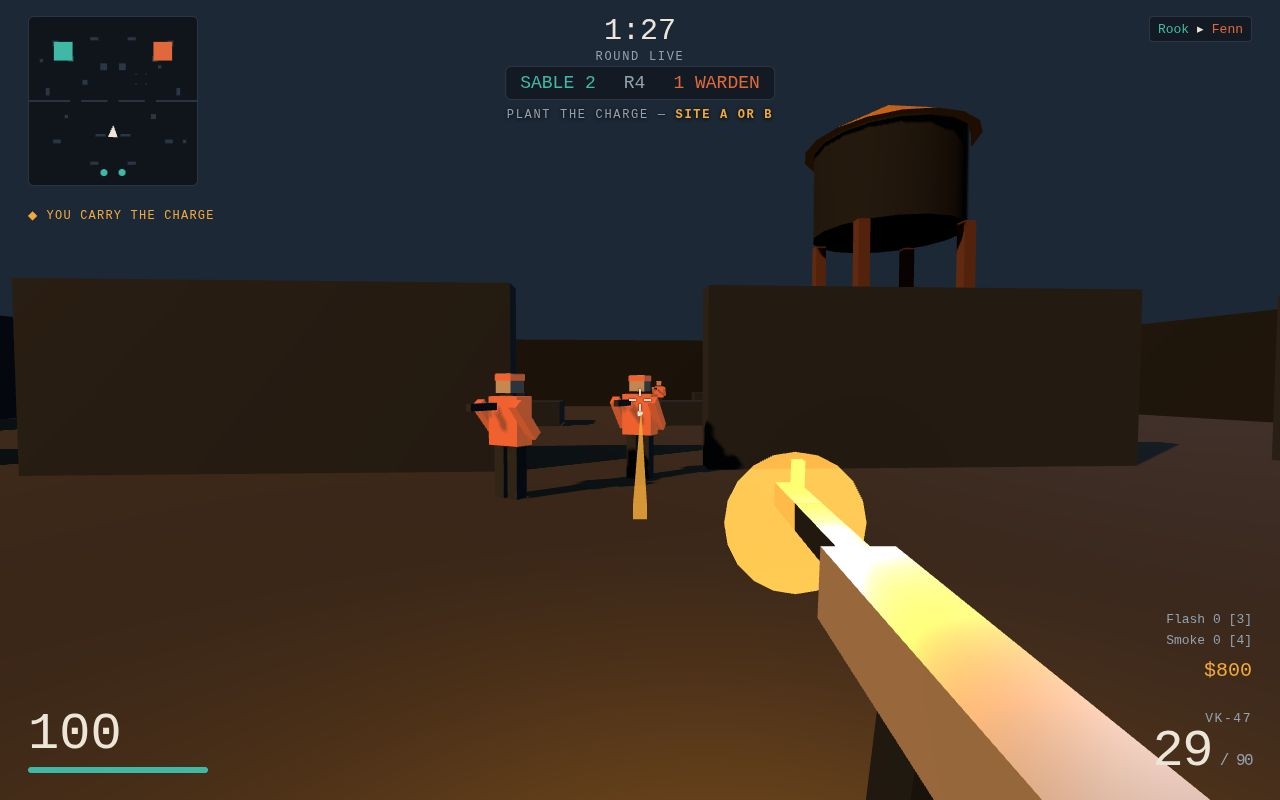
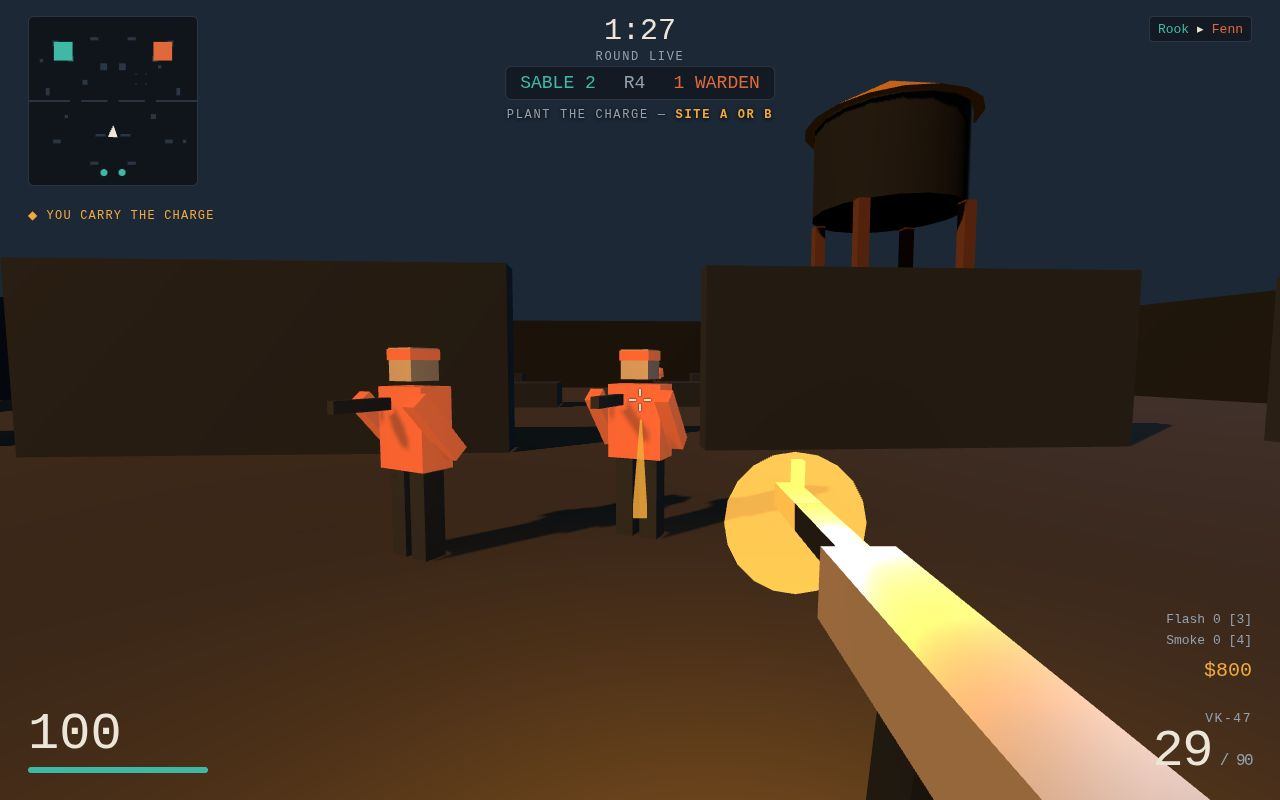
Review round: 7 targeted fixes (milionseek second opinion)
- Round-1 dead air: the buy menu auto-opens when round 1 starts, so the
  first thing a new player sees is something to do, not 15s at spawn.
  Closing it locks the pointer; the sim starts with the menu.
- Discrete-key double-toggle: edge keys are now consumed once per frame,
  after the sim steps, instead of cleared inside the step — a frame with
  no sim step (fast display) can no longer re-trigger B and close the
  menu it just opened. Reload stays guarded against multi-step frames.
- Play shot: the two Warden bots moved from ~9m to ~5m, so the cover
  frame has unmissable enemies in the centre gap.
- Shot-mode timers: the staged killfeed entry and the hitmarker no
  longer expire on wall clocks — a slow capture can't lose them.
- Death feedback: an 'Eliminated — spectating <name>' line appears on
  death, and follows the next living teammate if the spectated bot dies.
- Pointer relock: requestLock now reports success, and closeBuy retries
  once after 1.4s when Chrome's exit cooldown rejects the first attempt.
- Kevlar is per-life/per-round armour now: cleared on death and at round
  start for the player and every bot (bots re-buy when flush).

Live checks 16/16 (added auto-open + B-toggle checks), clean console;
dossier under the cap; screenshots retaken.

diff --git a/game/src/main.js b/game/src/main.js
@@ -90,6 +90,16 @@ const hud = createHud(world, {
     audio.unlock();
     if (shot) return;
     if (state.phase === 'matchEnd') restartMatch();
+    if (state.round === 1 && state.phase === 'buy') {
+      // Round 1 opens on the buy menu, not on an empty spawn: the first thing
+      // a new player sees is something to do, not 15s of dead air. No lock
+      // yet — the menu is a mouse UI, and closing it locks the pointer.
+      started = true;
+      paused = false;
+      hud.hideOverlay();
+      openBuy();
+      return;
+    }
     input.requestLock();
   },
   onBuy(id) {
@@ -122,6 +132,10 @@ function resetLoadoutForRound() {
   player.grenades.smoke = 0;
   player.flashUntil = 0;
   player.flashPeak = 0;
+  // Kevlar is per-round armour: a purchase from last round does not carry over.
+  player.kevlar = false;
+  hud.setArmor(false);
+  hud.setSpectate('');
   playerBody.reset(SPAWNS.sable[0]);
   weapons.refillAll();
   weapons.switchTo(player.primary ?? 'p9');
@@ -139,7 +153,9 @@ function resetLoadoutForRound() {
   hud.hidePlant();
   hud.setCharge(true);
   // Bots spend their winnings: a rifle when they can afford one, kevlar when flush.
+  // Their kevlar resets first, like the player's — then they re-buy if flush.
   for (const bot of bots.bots) {
+    bot.kevlar = false;
     const money = state.money[bot.id] ?? 0;
     if (money >= WEAPONS.vk47.price && bot.weapon !== 'vk47') {
       state.money[bot.id] -= WEAPONS.vk47.price;
@@ -328,16 +344,27 @@ function damageEntity(target, amount, headshot, attacker) {
     }
   }
   if (attacker === player) {
-    hud.hitMarker(target.health <= 0, shot ? 4000 : 90);
+    // In shot mode the hitmarker never expires: the render is frozen but wall
+    // clocks keep running, and a slow capture must not lose it.
+    hud.hitMarker(target.health <= 0, shot ? null : 90);
     audio.hit(target.health <= 0);
   }
   if (target.health > 0) return;
   target.alive = false;
   target.health = 0;
+  // Kevlar is per-life armour: it does not survive death.
+  target.kevlar = false;
   if (target.kind === 'bot') {
     target.fall = 0;
     target.target = null;
     target.channel = null;
+    // If the player was spectating this bot, follow the next living teammate
+    // instead of snapping back to the corpse.
+    if (target.id === spectateId && !player.alive) {
+      const next = bots.bots.find((b) => b.alive && b.team === 'sable');
+      spectateId = next ? next.id : null;
+      hud.setSpectate(next ? `Eliminated — spectating <b>${next.name}</b>` : 'Eliminated — <b>your team is gone</b>');
+    }
   }
   state.kills[attacker.id] = (state.kills[attacker.id] ?? 0) + 1;
   state.deaths[target.id] = (state.deaths[target.id] ?? 0) + 1;
@@ -353,6 +380,9 @@ function damageEntity(target, amount, headshot, attacker) {
   }
   if (target === player) {
     spectateId = (bots.bots.find((b) => b.alive && b.team === 'sable') ?? {}).id ?? null;
+    const spectated = spectateId ? bots.byId(spectateId) : null;
+    hud.setSpectate(spectated ? `Eliminated — spectating <b>${spectated.name}</b>` : 'Eliminated — <b>your team is gone</b>');
+    hud.setArmor(false);
     hud.setCharge(false);
     if (hud.buyOpen) closeBuy(false);
   }
@@ -426,7 +456,18 @@ function openBuy() {
 
 function closeBuy(relock) {
   hud.hideBuy();
-  if (relock && started && state.phase !== 'matchEnd' && !shot) input.requestLock();
+  if (relock && started && state.phase !== 'matchEnd' && !shot) {
+    input.requestLock().then((locked) => {
+      if (locked) return;
+      // Chrome enforces ~1.25s between exiting the lock and re-acquiring it; a
+      // quick close can land inside the cooldown and leave mouse look dead
+      // until the next click. Retry once after the cooldown, if the game still
+      // wants the lock then.
+      setTimeout(() => {
+        if (!hud.buyOpen && started && !paused && state.phase !== 'matchEnd') input.requestLock();
+      }, 1400);
+    });
+  }
 }
 
 function onLockChange(locked) {
@@ -572,7 +613,10 @@ function step(dt) {
   bots.step(dt, state.simTime);
   effects.step(dt);
   rounds.step(dt);
-  input.endStep();
+  // Edge-triggered keys are NOT cleared here: they are consumed once per frame
+  // in frame(), after the steps. Clearing inside the step let a frame with no
+  // sim step (fast display) re-trigger the same press — B opened then closed
+  // the buy menu in one tap.
 }
 
 function handleDiscreteKeys() {
@@ -664,7 +708,6 @@ function frame(now) {
   const dt = Math.min((now - lastTime) / 1000, 0.1);
   lastTime = now;
   if (!frozen && !paused && started) {
-    handleDiscreteKeys();
     const look = input.takeLook();
     if (input.state.locked && player.alive) playerBody.look(look.x, look.y);
     accumulator += dt;
@@ -675,6 +718,12 @@ function frame(now) {
       steps += 1;
     }
     if (accumulator > FIXED_STEP * 5) accumulator = 0;
+    // Discrete keys run once per frame, after the steps, and the edge set is
+    // cleared right here — so a press is consumed exactly once even on a frame
+    // where no sim step ran. (Steps still see the press first: reload is
+    // guarded, so several steps in one frame can't double-trigger it.)
+    handleDiscreteKeys();
+    input.endStep();
     syncCamera();
     syncHud();
   }
@@ -753,13 +802,13 @@ function runShot(name) {
     player.primary = 'vk47';
     weapons.switchTo('vk47');
     const bram = bots.byId('bram');
-    bram.pos.set(0.5, 0, 1);
+    bram.pos.set(0.3, 0, 5);
     bram.yaw = Math.PI;
     bram.state = 'hold';
     bram.holdYaw = Math.PI;
     bram.holdUntil = state.simTime + 60;
     const onyx = bots.byId('onyx');
-    onyx.pos.set(-1.4, 0, 2.5);
+    onyx.pos.set(-1.6, 0, 5.5);
     onyx.yaw = Math.PI * 0.9;
     onyx.state = 'hold';
     onyx.holdYaw = Math.PI * 0.8;
@@ -768,8 +817,8 @@ function runShot(name) {
     bots.blind(bram, state.simTime + 60, 1);
     bots.blind(onyx, state.simTime + 60, 1);
     settle(10);
-    hud.killfeedAdd({ killer: 'Rook', killerTeam: 'sable', victim: 'Fenn', victimTeam: 'warden', headshot: false });
-    aimPoint.set(0.5, 1.2, 1);
+    hud.killfeedAdd({ killer: 'Rook', killerTeam: 'sable', victim: 'Fenn', victimTeam: 'warden', headshot: false }, true);
+    aimPoint.set(0.3, 1.2, 5);
     aimAt(aimPoint);
     playerShoot();
     settle(1);

diff --git a/game/index.html b/game/index.html
@@ -84,12 +84,14 @@
   #plant-bar { height: 8px; margin-top: 6px; background: rgba(16,21,28,.8); border: 1px solid var(--hairline); border-radius: 4px; overflow: hidden; }
   #plant-fill { height: 100%; width: 0%; background: var(--accent); }
   #hint { position: fixed; left: 50%; bottom: 18%; transform: translateX(-50%); font-size: 14px; color: var(--ink); background: rgba(16,21,28,.72); border: 1px solid var(--hairline); border-radius: 4px; padding: 6px 12px; }
+  #spectate { position: fixed; left: 50%; bottom: 32%; transform: translateX(-50%); font-family: var(--font-readout); font-size: 15px; letter-spacing: .06em; color: var(--muted); text-shadow: 0 1px 6px #000; white-space: nowrap; }
+  #spectate b { color: var(--sable); font-weight: 600; }
   #hint kbd { font-family: var(--font-readout); color: var(--accent); }
   #charge { position: fixed; left: 28px; top: 208px; font-family: var(--font-readout); font-size: 12px; letter-spacing: .1em; color: var(--accent); text-transform: uppercase; }
   #flash { position: fixed; inset: 0; background: #fff; opacity: 0; pointer-events: none; }
   #damage { position: fixed; inset: 0; pointer-events: none; opacity: 0; transition: opacity 120ms linear; box-shadow: inset 0 0 90px 30px rgba(224,72,62,.55); }
   #buy { position: fixed; inset: 0; display: grid; place-items: center; background: rgba(16,21,28,.6); pointer-events: auto; }
-  #buy[hidden], #bomb[hidden], #plant[hidden], #hint[hidden], #charge[hidden], #objective[hidden] { display: none; }
+  #buy[hidden], #bomb[hidden], #plant[hidden], #hint[hidden], #charge[hidden], #objective[hidden], #spectate[hidden] { display: none; }
   #buy-panel { width: min(560px, 94vw); padding: 24px 28px; background: var(--surface); border: 1px solid var(--hairline); border-radius: var(--radius); }
   #buy-panel h2 { margin: 0 0 4px; font-size: 24px; font-weight: 600; letter-spacing: -.01em; }
   #buy-money { margin: 0 0 16px; font-family: var(--font-readout); color: var(--accent); }
@@ -133,6 +135,7 @@
   <div id="bomb" hidden><div id="bomb-label">Charge planted — 35.0</div><div id="bomb-bar"><div id="bomb-fill"></div></div></div>
   <div id="plant" hidden><div id="plant-label">Planting…</div><div id="plant-bar"><div id="plant-fill"></div></div></div>
   <div id="hint" hidden></div>
+  <div id="spectate" hidden></div>
   <div id="charge" hidden>◆ You carry the charge</div>
 </div>
 <div id="flash"></div>

diff --git a/game/src/hud.js b/game/src/hud.js
@@ -45,6 +45,7 @@ export function createHud(world, callbacks) {
   const scoreWarden = $('score-warden');
   const scoreMid = $('score-mid');
   const objectiveEl = $('objective');
+  const spectateEl = $('spectate');
   const dmgdir = $('dmgdir');
   const killfeed = $('killfeed');
   const banner = $('banner');
@@ -76,6 +77,7 @@ export function createHud(world, callbacks) {
   let lastTimer = '';
   let lastScore = '';
   let lastObjective = '';
+  let lastSpectate = '';
   let hitTimer = 0;
   let bannerTimer = 0;
   let damageTimer = 0;
@@ -220,14 +222,23 @@ export function createHud(world, callbacks) {
     setCharge(carrying) {
       charge.hidden = !carrying;
     },
-    killfeedAdd(entry) {
+    killfeedAdd(entry, persist = false) {
       const div = document.createElement('div');
       const killerClass = entry.killerTeam === 'sable' ? 'sable' : 'warden';
       const victimClass = entry.victimTeam === 'sable' ? 'sable' : 'warden';
       div.innerHTML = `<span class="${killerClass}">${entry.killer}</span> ▸ <span class="${victimClass}">${entry.victim}</span>${entry.headshot ? ' ◎' : ''}`;
       killfeed.prepend(div);
       while (killfeed.children.length > 5) killfeed.removeChild(killfeed.lastChild);
-      setTimeout(() => div.remove(), 6000);
+      // A persisted entry never expires: in shot mode the render is frozen but
+      // wall clocks keep running, and a slow capture must not lose the feed.
+      if (!persist) setTimeout(() => div.remove(), 6000);
+    },
+    // The death line under the crosshair: who the player is spectating. Empty hides it.
+    setSpectate(html) {
+      if (html === lastSpectate) return;
+      lastSpectate = html;
+      spectateEl.hidden = html === '';
+      spectateEl.innerHTML = html;
     },
     banner(titleText, subText, ms = 2500) {
       bannerTitle.textContent = titleText;
@@ -245,6 +256,7 @@ export function createHud(world, callbacks) {
       hitmarker.classList.toggle('kill', killed);
       hitmarker.style.transform = killed ? 'translate(-50%, -50%) rotate(45deg) scale(1.25)' : '';
       clearTimeout(hitTimer);
+      if (holdMs == null) return; // shot mode: the marker stays for the frame
       hitTimer = setTimeout(() => {
         hitmarker.classList.remove('on');
         hitmarker.classList.remove('kill');

diff --git a/game/src/input.js b/game/src/input.js
@@ -64,12 +64,21 @@ export function createInput(canvas, onLockChange) {
 
   return {
     state,
+    // Returns a promise that resolves true when the lock engages, false when it
+    // doesn't (no gesture, or Chrome's exit cooldown). Callers that need the
+    // lock can retry on false; callers that don't can ignore the result.
     requestLock() {
       try {
         const result = canvas.requestPointerLock();
-        if (result && typeof result.catch === 'function') result.catch(() => {});
+        if (result && typeof result.catch === 'function') {
+          return result.then(
+            () => true,
+            () => false,
+          );
+        }
+        return Promise.resolve(true);
       } catch {
-        // No user gesture yet: the play button click will lock instead.
+        return Promise.resolve(false);
       }
     },
     exitLock() {
